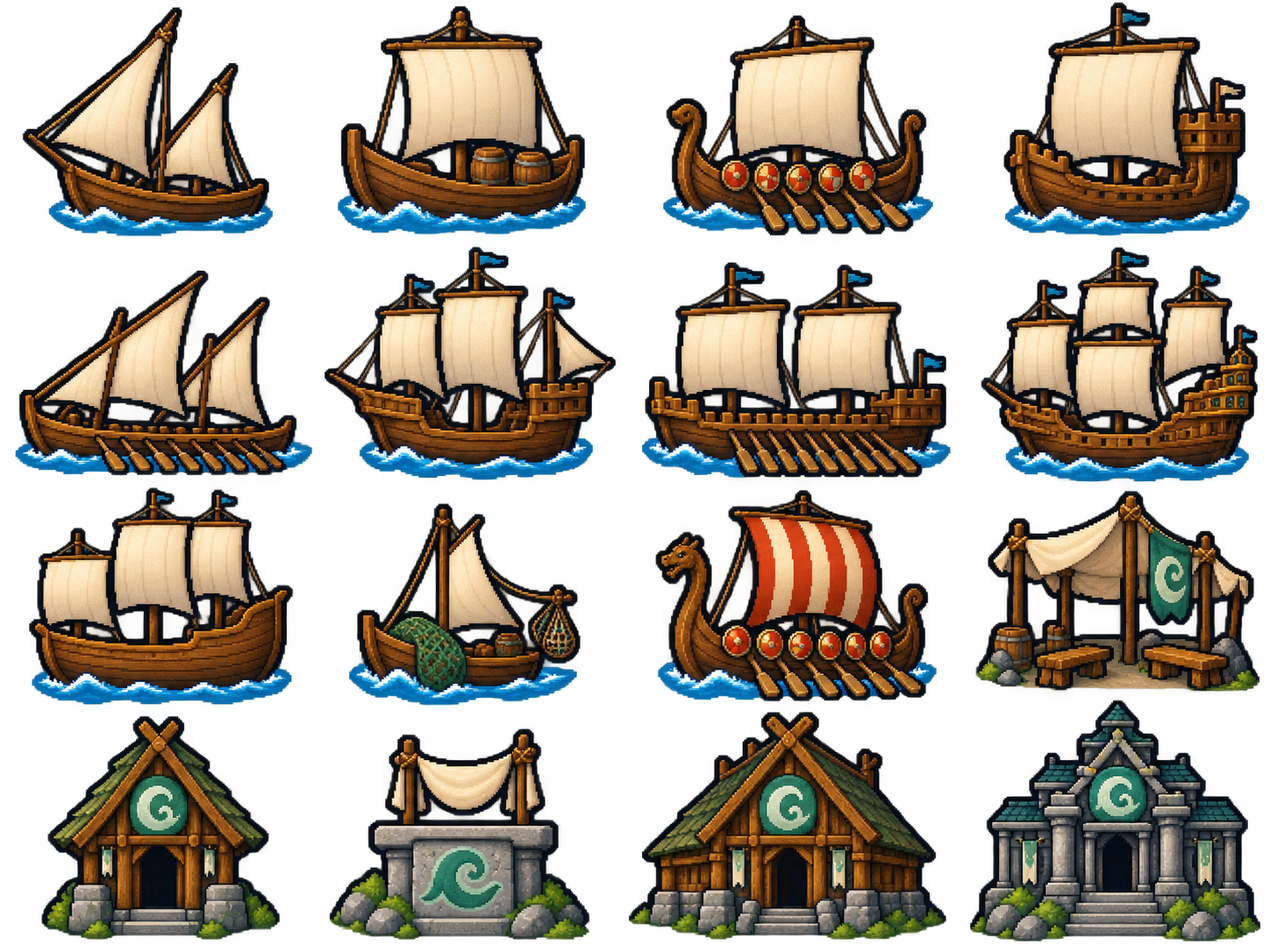
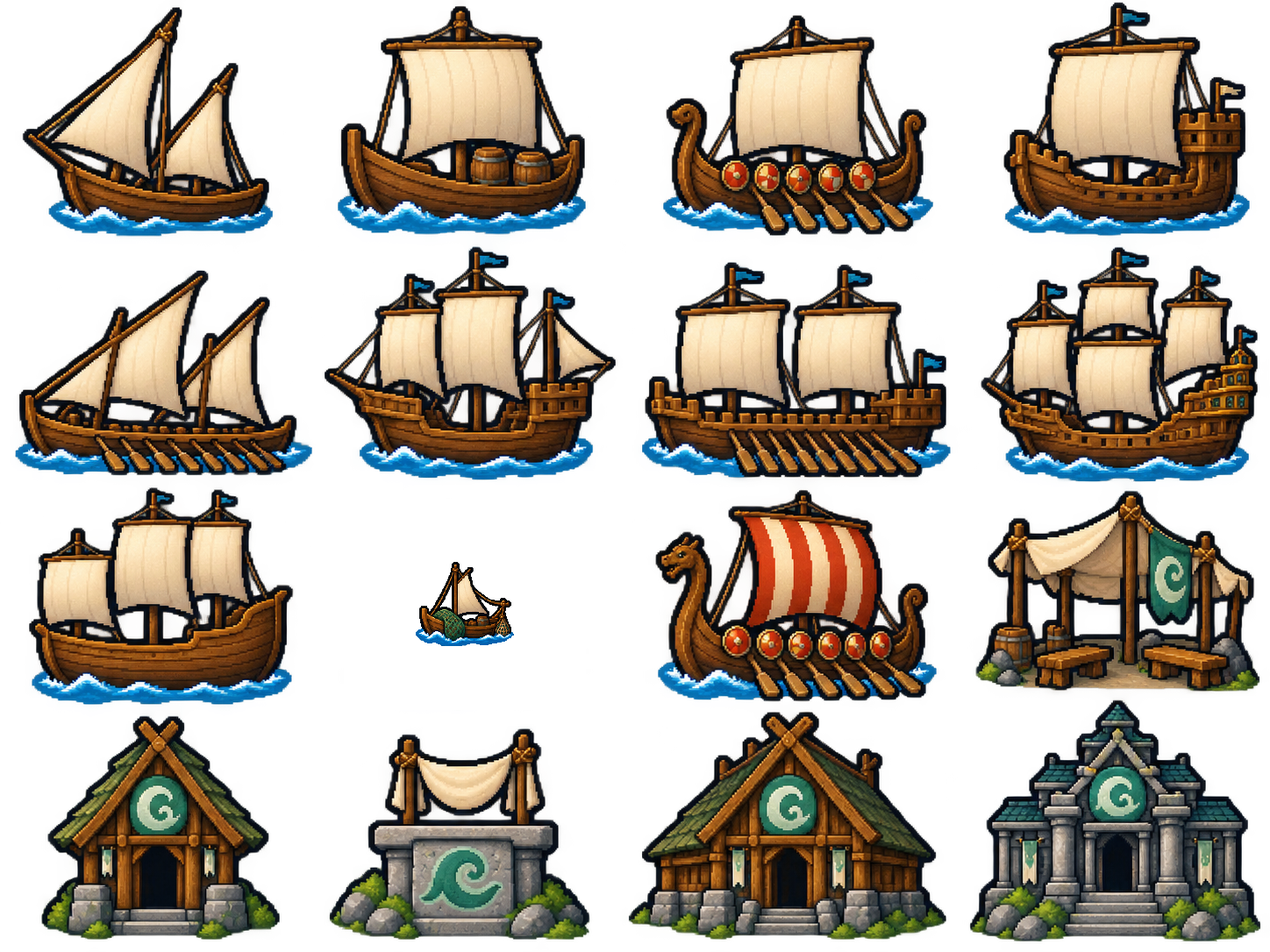
グラフィック修正

Changed region(s): [[0.2797, 0.5166, 0.4662, 0.7597]]

diff --git a/src/world/mapAssets.js b/src/world/mapAssets.js
@@ -3,7 +3,7 @@ import { PIXEL_SPRITES, PIXEL_EVENT_SPRITES, PIXEL_SPRITE_ATLAS_SIZE, PIXEL_EVEN
 /** 地図専用の画像。UIの画像とは分け、四枚が揃ってから同時に切り替える。 */
 const assets = {
   sprites: { file: "sprites-pixel.png?v=20261011-map-sprite-redraw", image: null, status: "idle" },
-  terrain: { file: "terrain-pixel.png", image: null, status: "idle" },
+  terrain: { file: "terrain-pixel.png?v=20261014-calm-water", image: null, status: "idle" },
   events: { file: "events-pixel.png?v=20261011-map-sprite-redraw", image: null, status: "idle" },
   party: { file: "party-norse-pixel.png", image: null, status: "idle" },
 };
@@ -113,39 +113,39 @@ function makeSurface(width, height) {
 /**
  * 模様の両端を薄く重ねて、繰り返しの境界に直線が出るのを防ぐ。
  * 左右を先に合わせ、その結果を上下で合わせるため四隅の色も連続する。
- * 一マス32画素の色面で継ぎ目を合わせ、拡大時は補間せず輪郭を保つ。
- * 海岸の曲線や水深マスクにはこの縮小を適用せず、接続の滑らかさを残す。
+ * 原画の画素寸法で継ぎ目を合わせ、各表示サイズへ描くまで細部を縮小しない。
+ * 継ぎ目の重なり幅は各辺の八分の一とし、海岸の曲線や水深マスクは変更しない。
  * @param {HTMLImageElement} image 原画。 @param {number} column 列。 @param {number} row 行。
  * @param {number} columns 列数。 @param {number} rows 行数。
  * @returns {HTMLCanvasElement|null} 繰り返し用の描画面。
  */
 export function makeRepeatingMapTexture(image, column, row, columns, rows) {
   if (typeof document === "undefined") return null;
-  const original = makeSurface(128, 128), surface = makeSurface(128, 128);
-  original.getContext("2d").drawImage(image, column * image.naturalWidth / columns, row * image.naturalHeight / rows,
-    image.naturalWidth / columns, image.naturalHeight / rows, 0, 0, 128, 128);
-  const target = surface.getContext("2d"); target.drawImage(original, 0, 0);
+  const width = Math.round(image.naturalWidth / columns), height = Math.round(image.naturalHeight / rows);
+  const overlapX = Math.max(1, Math.round(width / 8)), overlapY = Math.max(1, Math.round(height / 8));
+  const original = makeSurface(width, height), surface = makeSurface(width, height);
+  const source = original.getContext("2d"); source.imageSmoothingEnabled = false;
+  source.drawImage(image, column * image.naturalWidth / columns, row * image.naturalHeight / rows,
+    image.naturalWidth / columns, image.naturalHeight / rows, 0, 0, width, height);
+  const target = surface.getContext("2d"); target.imageSmoothingEnabled = false; target.drawImage(original, 0, 0);
   for (const vertical of [false, true]) {
     if (vertical) original.getContext("2d").drawImage(surface, 0, 0);
     for (const end of [false, true]) {
-      const strip = makeSurface(vertical ? 128 : 16, vertical ? 16 : 128);
-      const painter = strip.getContext("2d");
+      const strip = makeSurface(vertical ? width : overlapX, vertical ? overlapY : height);
+      const painter = strip.getContext("2d"); painter.imageSmoothingEnabled = false;
       painter.save(); painter.scale(vertical ? 1 : -1, vertical ? -1 : 1);
-      painter.drawImage(original, vertical ? 0 : end ? 0 : 112, vertical ? end ? 0 : 112 : 0,
-        strip.width, strip.height, vertical ? 0 : -16, vertical ? -16 : 0, strip.width, strip.height);
+      painter.drawImage(original, vertical ? 0 : end ? 0 : width - overlapX, vertical ? end ? 0 : height - overlapY : 0,
+        strip.width, strip.height, vertical ? 0 : -overlapX, vertical ? -overlapY : 0, strip.width, strip.height);
       painter.restore();
-      const fade = painter.createLinearGradient(0, 0, vertical ? 0 : 16, vertical ? 16 : 0);
+      const fade = painter.createLinearGradient(0, 0, vertical ? 0 : overlapX, vertical ? overlapY : 0);
       fade.addColorStop(0, end ? "#ffffff00" : "#ffffff80");
       fade.addColorStop(1, end ? "#ffffff80" : "#ffffff00");
       painter.globalCompositeOperation = "destination-in"; painter.fillStyle = fade;
       painter.fillRect(0, 0, strip.width, strip.height);
-      target.drawImage(strip, vertical ? 0 : end ? 112 : 0, vertical ? end ? 112 : 0 : 0);
+      target.drawImage(strip, vertical ? 0 : end ? width - overlapX : 0, vertical ? end ? height - overlapY : 0 : 0);
     }
   }
-  const enlarged = makeSurface(512, 512), painter = enlarged.getContext("2d");
-  painter.imageSmoothingEnabled = false;
-  painter.drawImage(surface, 0, 0, 512, 512);
-  return enlarged;
+  return surface;
 }
 
 /** @param {string} terrain 地形。 @returns {HTMLCanvasElement|null} 六種類の地形の繰り返し面を再利用する。 */

diff --git a/src/exploration/explorationUI.js b/src/exploration/explorationUI.js
@@ -13,7 +13,7 @@ import { SUPPLY_ITEMS, SUPPLY_TYPES } from "../resources/supplies.js";
 import { addTroops, TROOP_STATS } from "../resources/troops.js";
 import { awardExplorationFragment } from "./chartWorld.js";
 import { initializeExploration, tickExploration, describeDanger, rollExplorationReward, consumeExploration, EXPLORATION_NAMES } from "./exploration.js";
-import { getDangerousSeaPositions } from "../dangerousSeas/dangerousSeaWorld.js";
+import { dangerousSeaAt, getDangerousSeaPositions } from "../dangerousSeas/dangerousSeaWorld.js";
 import { rollDangerousExplorationReward, consumeDangerousExploration } from "../dangerousSeas/dangerousSeaExploration.js";
 import { beginDangerousSeaAction, finishDangerousSeaAction, dangerousSeaActionBlocked } from "../dangerousSeas/dangerousSeaHazards.js";
 import { dangerousSeaReservedPositions } from "../dangerousSeas/dangerousSeaReservations.js";
@@ -171,6 +171,8 @@ export function resumeExploration(syncUI) {
 /**
  * 現在地点の探索を確認し、固定結果を保存してから1日進める。
  * 確認中に地点やモードが変わっていれば実行しない。
+ * 難破船と危険海域内は強敵を優先し、それ以外の戦場跡・漂流物は通常編成にする。
+ * 戦闘の発生率は地点の固定値を使い、編成と報酬は開始時に一度だけ抽選する。
  * @param {Function} syncUI 表示同期。
  * @returns {void}
  */
@@ -179,10 +181,11 @@ function beginExploration(syncUI) {
   const site = getExplorationAt(state.position);
   if (!site || state.modeLabel !== MODE_LABEL.NORMAL || state.pendingEncounter?.active || state.expansion.charts.pending || dangerousSeaActionBlocked()) return;
   const staged = site.regionId && site.kind === "wreck";
+  const strong = site.kind === "wreck" || !!site.regionId || !!dangerousSeaAt(site.position);
   confirmAction({ title: `${EXPLORATION_NAMES[site.kind]}を探索`,
     body: staged ? "甲板の積荷を探します。船倉には、さらに積荷や生存者が残っているかもしれません。" : EXPLORATION_HINTS[site.kind],
     sections: [{ title: "探索の条件", items: [staged ? "甲板1日 / 船倉の積荷か救助は追加1日" : "所要1日", `期限まであと${site.expiresAbs - absDay(state)}日`, describeDanger(site.danger)] },
-      ...(site.danger > 0 ? [{ title: "戦闘に備えて", items: ["敵は賞金首相当", "敗北・逃走・引き分けでは報酬なし。探索地点も消えます。"] }] : [])],
+      ...(site.danger > 0 ? [{ title: "戦闘に備えて", items: [strong ? "敵は賞金首相当" : "敵は通常編成", "敗北・逃走・引き分けでは報酬なし。探索地点も消えます。"] }] : [])],
     guideTopic: "guide-exploration",
     confirmText: "1日使って探索",
     onConfirm: () => {
@@ -193,7 +196,7 @@ function beginExploration(syncUI) {
       const fight = site.danger === 1 || (site.danger > 0 && Math.random() < site.danger);
       let encounter = null;
       if (fight) {
-        const enemy = site.regionId ? buildDangerousEnemyFormation(site.position, site.level) : buildEnemyFormation("elite", "pirates");
+        const enemy = site.regionId ? buildDangerousEnemyFormation(site.position, site.level) : buildEnemyFormation(strong ? "elite" : "normal", "pirates");
         encounter = { active: true, enemyFormation: enemy.formation, enemyTotal: enemy.total, strength: enemy.strength,
           enemyFactionId: "pirates", terrain: mapData[site.position.y][site.position.x].terrain, eventTag: site.regionId ? "dangerous_exploration" : "natural_exploration",
           ...(site.regionId ? { dangerousExplorationId: site.id, dangerousRegionId: site.regionId } : { explorationId: site.id }) };

diff --git a/layout.css b/layout.css
@@ -90,7 +90,7 @@ main .grid > * { min-width: 0; }
 .location-actions .btn:disabled { opacity: .42; cursor: not-allowed; }
 .location-action-note { margin: 8px 0 0; color: var(--muted); font-size: 10px; line-height: 1.6; }
 .location-action-exit { display: grid; gap: 7px; padding-top: 12px; border-top: 1px solid var(--line); }
-.location-action-exit .btn { justify-content: center; min-height: 44px; background: transparent; color: #b4c8dd; --action-icon: url('./image/ui/action-exit.svg?v=20261010-maritime-ui'); }
+.location-action-exit .btn { justify-content: center; min-height: 44px; background: transparent; color: #b4c8dd; --action-icon: url('./image/ui/action-exit.svg?v=20261014-exit-door-aligned'); }
 .location-action-grid #exploreInfo,
 .location-action-grid #dangerousSeaEventInfo { grid-column: 1 / -1; }
 /* 難破船の選択は全列を使って縦に並べ、長い斥候情報でボタンが押し潰されるのを防ぐ。 */
@@ -115,7 +115,7 @@ main .grid > * { min-width: 0; }
 #dangerousSeaEventBtn { --action-icon: url('./image/ui/action-sea-event.svg?v=20261010-maritime-ui'); }
 #dangerousWreckChoices .btn { --action-icon: url('./image/ui/action-trade.svg?v=20261010-maritime-ui'); }
 #dangerousWreckChoices [data-wreck-choice="rescue"] { --action-icon: url('./image/ui/action-rescue.svg?v=20261010-maritime-ui'); }
-#dangerousWreckChoices [data-wreck-choice="leave"] { --action-icon: url('./image/ui/action-exit.svg?v=20261010-maritime-ui'); }
+#dangerousWreckChoices [data-wreck-choice="leave"] { --action-icon: url('./image/ui/action-exit.svg?v=20261014-exit-door-aligned'); }
 .location-actions #oracleBattleBtn, .location-actions #bountyVisitBtn {
   background: #385582; border-color: #7aa7ff; color: #fff;
 }
@@ -129,7 +129,7 @@ main .grid > * { min-width: 0; }
 #nationalPowerDonate, #audienceBribeBtn { --action-icon: url('./image/ui/funds.svg?v=20261011-wheat-coins'); }
 #audienceHonorBtn { --action-icon: url('./image/ui/identity.svg?v=20261010-maritime-ui'); }
 #audienceRequestBtn { --action-icon: url('./image/ui/action-quest.svg?v=20261010-maritime-ui'); }
-#audienceResignBtn { --action-icon: url('./image/ui/action-exit.svg?v=20261010-maritime-ui'); }
+#audienceResignBtn { --action-icon: url('./image/ui/action-exit.svg?v=20261014-exit-door-aligned'); }
 .command-actions #audienceResignBtn { background: #ad626210; border-color: #c5797947; color: #e0bcbc; }
 .command-actions #audienceResignBtn:hover:not(:disabled) { background: #ad62622b; border-color: #c57979; }
 .command-actions-title { display: flex; align-items: center; justify-content: space-between; gap: 8px; margin: 0; font-size: 11px; letter-spacing: .08em; color: #b6c9dd; font-weight: 600; }
@@ -137,7 +137,7 @@ main .grid > * { min-width: 0; }
 #battlePrepInfo { justify-self: start; max-width: 100%; box-sizing: border-box; white-space: normal; line-height: 1.6; border: 0; border-left: 2px solid #b6c9dd55; border-radius: 0; background: transparent; padding: 4px 9px; color: #b6c9dd; }
 #battlePrepFightBtn, #warAttackRaidBtn, #warSkirmishBtn { --action-icon: url('./image/ui/arms.svg?v=20261010-maritime-ui'); }
 #warGrandBtn { --action-icon: url('./image/ui/action-grand-battle.svg?v=20261010-maritime-ui'); }
-#battlePrepRunBtn { --action-icon: url('./image/ui/action-exit.svg?v=20261010-maritime-ui'); }
+#battlePrepRunBtn { --action-icon: url('./image/ui/action-exit.svg?v=20261014-exit-door-aligned'); }
 #battlePrepPrayBtn { --action-icon: url('./image/ui/faith.svg?v=20261010-maritime-ui'); }
 #battlePrepSurrenderBtn { --action-icon: url('./image/ui/action-surrender.svg?v=20261010-maritime-ui'); }
 #warDefendRaidBtn, #warEscortBtn { --action-icon: url('./image/ui/action-shield.svg?v=20261010-maritime-ui'); }

diff --git a/tests/uiArtPreview.html b/tests/uiArtPreview.html
@@ -6,7 +6,7 @@
   <base href="../">
   <title>UIアイコンの描画確認 — 潮語り航海録</title>
   <link rel="stylesheet" href="styles.css?v=20261011-map-shared-ui">
-  <link rel="stylesheet" href="layout.css?v=20261011-wheat-coins">
+  <link rel="stylesheet" href="layout.css?v=20261014-exit-door-aligned">
   <link rel="stylesheet" href="tests/uiArtPreview.css?v=20261011-map-shared-ui">
 </head>
 <body>
@@ -30,6 +30,7 @@
             <button type="button" class="btn" id="oracleBtn">神託を授かる</button><button type="button" class="btn" id="modePrayBtn">海に祈る</button>
             <button type="button" class="btn" id="modeWaitBtn">1日待機</button><button type="button" class="btn" id="finalVoyageBtn">最終航海</button>
           </div></div>
+          <div class="location-action-exit"><button type="button" class="btn ghost" id="exitTownBtn">街を出る</button></div>
         </div>
         <div>
           <div class="ui-art-resource-context">
@@ -58,6 +59,6 @@
     <section aria-labelledby="uiFishTitle"><h2 id="uiFishTitle">魚図鑑</h2><div id="uiFish" class="ui-art-grid"></div></section>
     <p id="uiArtStatus" role="status">素材を確認中…</p>
   </main>
-  <script type="module" src="tests/uiArtPreview.js?v=20261011-wheat-coins"></script>
+  <script type="module" src="tests/uiArtPreview.js?v=20261014-textile-blue"></script>
 </body>
 </html>

diff --git a/tests/uiArtPreview.js b/tests/uiArtPreview.js
@@ -1,4 +1,4 @@
-import { shipIcon } from "../src/fleet/shipArt.js?v=20261010-maritime-ui";
+import { shipIcon } from "../src/fleet/shipArt.js?v=20261014-fishing-net";
 import { SHIP_TYPES } from "../src/fleet/shipConfig.js";
 import { tideStageIcon } from "../src/faith/tideScene.js?v=20261010-maritime-ui";
 import { TIDE_STAGES } from "../src/faith/tideAlliance.js";
@@ -38,7 +38,11 @@ function addSample(target, label, html, smallSize = 20, largeSize = 48) {
 
 /** @returns {void} 資源・行動・四季・勢力・人物・船・施設・魚図鑑を漏れなく並べる。 */
 function renderPreview() {
-  for (const [file, label] of resources) addSample("uiResources", label, `<img src="./image/ui/${file}.svg?v=20261011-wheat-coins" alt="">`);
+  for (const [file, label] of resources) {
+    const version = file === "textile" ? "20261014-textile-blue"
+      : file === "action-exit" ? "20261014-exit-door-aligned" : "20261011-wheat-coins";
+    addSample("uiResources", label, `<img src="./image/ui/${file}.svg?v=${version}" alt="">`);
+  }
   for (let season = 0; season < SEASONS.length; season++) {
     const card = document.createElement("figure"); card.className = "ui-art-card";
     const date = document.createElement("div"); date.className = "ui-art-date";

diff --git a/src/fleet/shipArt.js b/src/fleet/shipArt.js
@@ -6,5 +6,6 @@
 export function shipIcon(id) {
   const ships = ["caravel", "knarr", "longship", "cog", "galley", "carrack", "galleass", "galleon", "fluyt", "fishing_boat", "viking_ship"];
   const art = ships.includes(id) ? id : "caravel";
-  return `<svg class="ship-icon" viewBox="0 0 64 64" aria-hidden="true" focusable="false"><image href="./image/ui/ship-${art}.png?v=20261010-maritime-ui" width="64" height="64" preserveAspectRatio="xMidYMid meet"/></svg>`;
+  const version = art === "fishing_boat" ? "20261014-fishing-net" : "20261010-maritime-ui";
+  return `<svg class="ship-icon" viewBox="0 0 64 64" aria-hidden="true" focusable="false"><image href="./image/ui/ship-${art}.png?v=${version}" width="64" height="64" preserveAspectRatio="xMidYMid meet"/></svg>`;
 }

diff --git a/src/ui/resourceUI.js b/src/ui/resourceUI.js
@@ -17,7 +17,8 @@ const TROOP_IDS = ["infantry", "halberd", "medic", "marine", "archer", "scout", 
  * @returns {string}
  */
 export function resourceIcon(id) {
-  const src = Object.hasOwn(ICONS, id) ? `./image/ui/${ICONS[id]}.svg?v=20261011-wheat-coins`
+  const version = id === "textile" ? "20261014-textile-blue" : "20261011-wheat-coins";
+  const src = Object.hasOwn(ICONS, id) ? `./image/ui/${ICONS[id]}.svg?v=${version}`
     : (TROOP_IDS.includes(id) || Object.hasOwn(PIRATE_IMAGES, id)) ? `./${troopImage(id)}` : null;
   return src ? `<img class="resource-icon" src="${src}" alt="" aria-hidden="true">` : "";
 }

diff --git a/index.html b/index.html
@@ -6,7 +6,7 @@
   <meta name="viewport" content="width=device-width, initial-scale=1" />
   <title>潮語り航海録（β版）</title>
   <link rel="stylesheet" href="styles.css?v=20261011-map-shared-ui" />
-    <link rel="stylesheet" href="layout.css?v=20261011-wheat-coins" />
+    <link rel="stylesheet" href="layout.css?v=20261014-exit-door-aligned" />
 </head>
 
 <body>

diff --git a/artwork/map/README.md b/artwork/map/README.md
@@ -34,7 +34,7 @@
 - `events-pixel.png`: 2172×724、RGBA、三列一段。左から嵐の置き土産・霧中の灯火・沈みかけた宝船。
 - `dangerous-seas-pixel.png`: 1774×887、二列一段。南西は緑灰の斜めの白波、南東は藍の潮流と段状の霧。描画時の色合成に頼らず、原画で海域の色を分ける。
 
-図柄は実測範囲を原寸のまま一度だけ切り出し、周辺・拡大の各表示サイズへ一度だけ縮小する。星・防衛盾の色替えも原寸で行う。長辺40画素への固定縮小を挟まないため、拡大時も屋根や城壁などの細部が残る。画像の補間は止めてドットの輪郭を保つ。地形と荒海は四マス128画素で継ぎ目を合わせる。海岸線の外角・内角、水深の透過マスク、孤島の背景は既存の滑らかな接続を共有し、素材だけの粒度と分けて扱う。全体表示はすべて専用の簡易図柄を使い、詳細表示の同じ素材を過度に縮めない。地図の枠・ボタン・現在地表示も紙と真鍮の色へ合わせる。
+図柄は実測範囲を原寸のまま一度だけ切り出し、周辺・拡大の各表示サイズへ一度だけ縮小する。星・防衛盾の色替えも原寸で行う。長辺40画素への固定縮小を挟まないため、拡大時も屋根や城壁などの細部が残る。画像の補間は止めてドットの輪郭を保つ。地形と荒海も原寸で継ぎ目を合わせ、表示サイズへ一度だけ縮小する。四マス周期の配置は維持する。海岸線の外角・内角、水深の透過マスク、孤島の背景は既存の滑らかな接続を共有し、素材だけの粒度と分けて扱う。全体表示はすべて専用の簡易図柄を使い、詳細表示の同じ素材を過度に縮めない。地図の枠・ボタン・現在地表示も紙と真鍮の色へ合わせる。
 
 全分類・全縮尺・海岸・危険海域・既存ユニットとの比較は `tests/mapArtPreview.html` で確認できる。
 
@@ -78,7 +78,11 @@ Use case: stylized-concept. Asset type: three sprite production pixel-art atlas 
 
 ### 地形・荒海の生成方針
 
-地形は削除済みの旧原画 `terrain.png` とユニット3種を参照して編集生成した。三列二段の配置と六地形を指定し、各パネル128論理画素の色面、3〜5階調、少数の短い段状の波や草むらを指定した。深海は `#245876`、浅瀬は `#4b9eaa`、草地は `#80925b`、岩地は `#7f9291`、甲板は暖かい栗色。写真・絵画の単なるモザイク化、微細な粒、ぼかし、岸・島・樹冠・建物の描き込みは避け、海岸はゲーム側の描画に任せる。
+2026年10月14日、承認済みの比較サンプルの地形を `terrain-pixel.png` へ適用した。内蔵の画像生成ツールで、従来の地形画像を編集対象、現行の地図アイコンを粒度の参考として指定し、六パネルの順序と配色を保ちながら波・草・地面・木目を細かく描き直した。生成指示は「各512画素パネルを約256論理画素相当の細かなドットで描く、四マス周期、落ち着いた配色、岸・島・樹木・建物は含めない」。承認画像は `C:/Users/peepk/.codex/generated_images/01a121ec-ab48-7871-944a-f4403a99fc5a/exec-a20946a0-121c-4474-aab6-4a2be58ee1c6.png`。本番には同一のPNGを保存し、アイコン・海岸・水深マスク・荒海は変更していない。
+
+同日、海と浅瀬の白い波線を控えめにした承認案を適用。組み込み画像生成へ「細かなドットと波の流れを保ち、白い波線の明るさ・コントラストを約半分に抑え、海は青・浅瀬は青緑になじませる」と指示した。生成元は `C:/Users/peepk/.codex/generated_images/01a121ec-ab48-7871-944a-f4403a99fc5a/exec-584c7bb5-a0e2-4c96-b898-771c57659a30.png`。海・浅瀬の二パネルのみを取り込み、他の四地形の画素は保持している。海岸・水深マスク・アイコン・危険海域の素材も変更していない。画像のキャッシュ更新番号は `20261014-calm-water`。
+
+従来の地形は削除済みの旧原画 `terrain.png` とユニット3種を参照して編集生成した。三列二段の配置と六地形を指定し、各パネル128論理画素の色面、3〜5階調、少数の短い段状の波や草むらを指定した。深海は `#245876`、浅瀬は `#4b9eaa`、草地は `#80925b`、岩地は `#7f9291`、甲板は暖かい栗色。写真・絵画の単なるモザイク化、微細な粒、ぼかし、岸・島・樹冠・建物の描き込みは避け、海岸はゲーム側の描画に任せる。
 
 荒海は削除済みの旧原画 `dangerous-seas.png` を参照して編集生成した。二つの等しい正方形パネル、各四マス周期、128論理画素相当の段状の波頭、2〜4段階の陰影、8〜12色を指定した。左は南西の緑灰 `#30564c` / `#254c45` に泡 `#c3d6c6` の斜めの短い波、右は南東の藍 `#354765` に霧 `#8caeba` の湾曲した潮筋。継ぎ目のない対向辺、全面不透明、物体・文字・大きな渦なし、写真の反射や微細粒・ぼかし・ディザ・モザイク縮小を避ける指定とした。
 

diff --git a/design/design.md b/design/design.md
@@ -76,7 +76,7 @@
 
 - マップ生成は疑似乱数（線形合同法）を用い島/浅瀬/山などを配置。拠点名は接頭語+語幹+村/街の組合せで重複回避。
 - 表示は `full` / `nearby` / `zoom` の3モード。1ボタンで全体→周辺→拡大と循環し、「地図切替：周辺」のように現在の表示を示す。描画・ホバー・クリックは表示原点とマス数を共用し、現在地を中心に地図端で範囲を補正する。描画幅を固定し、周辺と拡大は共通の詳細描画（地形・拠点・探索地点・現在地アイコン）を使う。全体だけ簡略表示とする。選択座標は切り替えで消さず、依頼の場所確認では全体表示へ戻す。ピンは依頼/神託/移動/補給などの種類別に形状/色/優先度を持ち、`mapPinsVisible` で一括表示切替。
-- 地図の画像は `image/map/` に集約する。ユニットに合わせて色面と陰影を整理した `*-pixel.png` を使い、`mapAssets.js` が地形・図柄・海域の出来事・陸の一行の四枚を一度だけ読み込み、揃ったときに地図と戦場を再描画する。陸の一行は `party-norse-pixel.png` の中世北欧風の兜・丸盾・短いマントを使い、全体表示も同じ特徴を残す。図柄と星・盾の色替えは原寸で保持し、周辺・拡大の各表示サイズへ一度だけ縮小する。地形は一マス32画素の粒度で再利用し、画像の補間を止めてドットの輪郭を保つ。`mapSpriteBounds.js` は透過図柄の実測範囲を持つ。`mapTerrainArt.js` は世界座標で連続する模様、海側だけの砂浜、森・山・拠点を描き、`mapSymbolArt.js` は地点と現在地を共通の画風で描く。全体50×50表示では `mapOverviewArt.js` の専用シルエットを使い、地形6種・拠点3種・現在地2種・探索3種・海図4種・賞金首・物語2種・海域の出来事5種・依頼ピン4形状を簡略化する。画像待機・失敗時も地形と図柄で代替し、操作を継続できる。地形・移動判定・保存データは変えない。自然模様は座標で固定し、UI画像は共用しない。地図の枠・ボタン・現在地表示は紙と真鍮の色で統一する。
+- 地図の画像は `image/map/` に集約する。ユニットに合わせて色面と陰影を整理した `*-pixel.png` を使い、`mapAssets.js` が地形・図柄・海域の出来事・陸の一行の四枚を一度だけ読み込み、揃ったときに地図と戦場を再描画する。陸の一行は `party-norse-pixel.png` の中世北欧風の兜・丸盾・短いマントを使い、全体表示も同じ特徴を残す。図柄と星・盾の色替えは原寸で保持し、周辺・拡大の各表示サイズへ一度だけ縮小する。地形と荒海も原寸で継ぎ目を合わせて再利用し、画像の補間を止めてドットの輪郭を保つ。`mapSpriteBounds.js` は透過図柄の実測範囲を持つ。`mapTerrainArt.js` は世界座標で連続する模様、海側だけの砂浜、森・山・拠点を描き、`mapSymbolArt.js` は地点と現在地を共通の画風で描く。全体50×50表示では `mapOverviewArt.js` の専用シルエットを使い、地形6種・拠点3種・現在地2種・探索3種・海図4種・賞金首・物語2種・海域の出来事5種・依頼ピン4形状を簡略化する。画像待機・失敗時も地形と図柄で代替し、操作を継続できる。地形・移動判定・保存データは変えない。自然模様は座標で固定し、UI画像は共用しない。地図の枠・ボタン・現在地表示は紙と真鍮の色で統一する。
 - `mapCoastArt.js` は海岸の外角と入り江の内角を同じ丸みでつなぐ。`mapWaterArt.js` は海・浅瀬の濃度を共有辺と四マスの交点で揃え、小島の背景も周囲の水深へ接続する。村・街・森・山などに一律の浅瀬背景を置かず、詳細・全体表示・戦場で同じ周辺地形を参照する。甲板は海岸の対象に含めない。
 - `isValidMove` で隣接1マスかつ所持上限未超過をチェック。`moveToSelected` が移動/待機を実行し、日数進行や遭遇判定を呼ぶ。
 - エンカウント閾値は 10〜15（`resetEncounterMeter` で決定）。進捗が閾値に達すると `startTravelEncounter` で敵編成生成・戦闘準備モードへ遷移。拠点に入るとリセット。

diff --git a/artwork/ui/actions-art.md b/artwork/ui/actions-art.md
@@ -18,6 +18,23 @@
 
 ユーザー指定により、賞金首のUIはマップと同じ手配書へ統一した。保存した変更前のマップアトラス `artwork/map/redraw/sprites-before-redraw.png` の `[303, 780, 176, 207]` を切り出し、画素を変更せず `image/ui/action-bounty.svg` へ埋め込む。街の一覧・通常海域の現地確認・危険海域の現地確認に共用する。再切り出しは `node scripts/extractUIAtlas.cjs artwork/ui/atlases/map-bounty.json`。元の行動アトラスは他19種の再生成用に保持し、未採用のセル7は切り出し設定から除いた。
 
+## 2026年10月14日の退出扉の修正
+
+扉の金具と開く方向の食い違いを解消するため、組み込み画像生成ツール（built-in image_gen）で退出アイコンを描き直した。右の柱に蝶番を固定し、手前に開く扉の厚み・上下の辺・金具・自由端の取っ手を同じ向きへ揃えた。
+
+最終採用画像は `C:/Users/peepk/.codex/generated_images/01a121ec-ab48-7871-944a-f4403a99fc5a/exec-852f78a7-63e5-4f96-85c2-821315fab79a.png`。扉の上端を石枠に合う丸アーチ形へ修正し、ユーザーの承認後に差し替えた。本番用の原画 `artwork/ui/atlases/actions.png` のセル6（`[300, 296, 259, 260]`）へ透過・切り出し・最近傍縮小だけで配置し、他セルのRGBA画素はすべて維持した。既存の `actions.json` と共通切り出しスクリプトから `image/ui/action-exit.svg` を再現できる。街・村の出入り、難破船からの退出、辞官、逃走で同じ素材を使い、参照更新版は `20261014-exit-door-arched` とする。単独の試作用原画や設定をリポジトリには追加しない。
+
+初回案の生成指示（最終案は扉の丸アーチ形と枠への適合を指定して修正）:
+
+```text
+Use case: stylized-concept.
+Asset type: ONE transparent pixel-art EXIT / OPEN DOOR UI icon for the medieval Northern European maritime game Shiogatari, readable at 23px.
+Input image 1 is a STYLE AND PALETTE REFERENCE ONLY: the existing actions atlas. Do not reproduce the atlas. Create one newly constructed doorway icon replacing its confusing door geometry.
+Subject: one compact grey stone arched doorway and ONE thick oak door leaf, attached by two iron hinges to the RIGHT vertical stone jamb. The door clearly opens OUTWARD TOWARD THE VIEWER, approximately 55 degrees. The hinge edge stays on the right jamb; the free left edge projects toward the viewer, visibly IN FRONT OF and LOWER THAN the stone threshold. A coherent foreshortened wooden door face is visible. Its top and bottom edges, thickness, two iron strap hinges and single ring handle all agree with that SAME outward rotation. The handle is near the FREE edge, never beside the hinge. The open dark passage remains clearly visible to the LEFT of the leaf. No disconnected hinge, inverted perspective, inward-receding leaf, second leaf, or door vanishing inside the opening.
+Style: match the reference's polished restrained 16-bit pixel game icons, broad intentional color clusters, about 48–56 logical pixels, 3–4 shade steps per material, thin dark navy contour, upper-left illumination. Warm golden oak, muted grey-beige stone, cool blue-grey iron. Clear door construction and large simple planes before fine decoration. Keep the stone frame slim enough for the doorway and leaf to remain legible at 23px.
+Framing: ONE complete centered isolated icon, nearly square compact silhouette, generous fully transparent margin, actual transparent RGBA background. No surrounding wall, scenery, floor extending beyond the threshold, extra objects, arrow, text, labels, glow, watermark, soft shadow, checkerboard or grid.
+```
+
 ## モチーフと割り当て
 
 | セル | ファイル | モチーフ | 用途 |

diff --git a/design/expansion-design.md b/design/expansion-design.md
@@ -59,7 +59,7 @@
 | 戦闘確率 | 0%・25%・50%・75%・100%の5段階。段階別にダイアログの案内を変える |
 | 敗北・逃走・引き分け | 報酬なし。探索地点も消滅 |
 | 陸上の名称 | 漂流物に相当する地点を「戦場跡」と表示 |
-| 探索 | 1日消費。確率で賞金首相当の敵と戦闘 |
+| 探索 | 1日消費。確率で戦闘。戦場跡・漂流物は通常編成、難破船・危険海域内は賞金首相当 |
 | 表示 | 種別ごとに地図アイコンを追加 |
 
 ### 3.2 配置・寿命の提案
@@ -411,7 +411,7 @@ READMEは待機中も有効としているが、現行 `src/app/ui.js` の `calc
 
 ### R5. 探索で遭遇した敵からの逃走（確定）
 
-自然探索は賞金首相当の編成の強さだけを継承し、戦闘開始前の逃走を許可する（確定）。既存の討伐依頼の逃走可否は変更しない。
+自然探索の戦場跡・漂流物は通常編成とし、難破船または危険海域内の場合は賞金首相当の編成の強さを継承する。戦闘開始前の逃走を許可する（確定）。既存の討伐依頼の逃走可否は変更しない。
 
 確定: 自然探索では遭遇戦の準備画面を使い、戦闘開始前の逃走を許可する。成功時は探索地点を消去、報酬なし。失敗時は再抽選・再逃走の連打で安全化させず戦闘へ進む。降伏も地点消去・探索報酬なしとし、通常の降伏ペナルティを適用する。戦闘開始後の任意撤退ボタンは追加しない。
 
